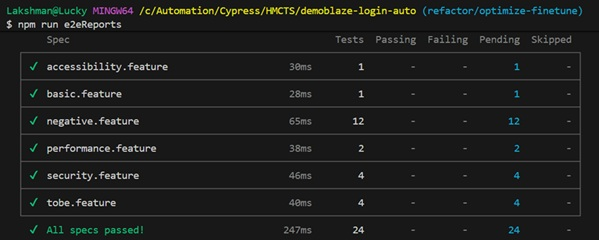
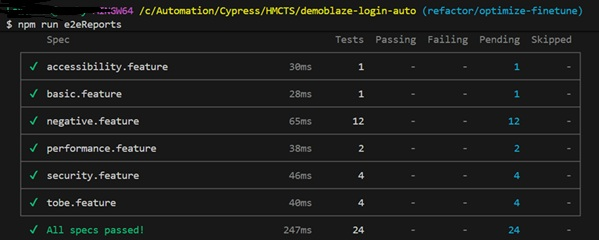
Name blind the test results summary

Changed region(s): [[0.0, 0.0, 0.1803, 0.0875]]

diff --git a/README.md b/README.md
@@ -91,7 +91,8 @@ cypress/
    ```bash
    npx cypress run --headed --browser chrome
    ```
-![alt text](image.png)
+
+![alt text](<test execution summary.jpg>)
 
 ### Generating Reports
 
